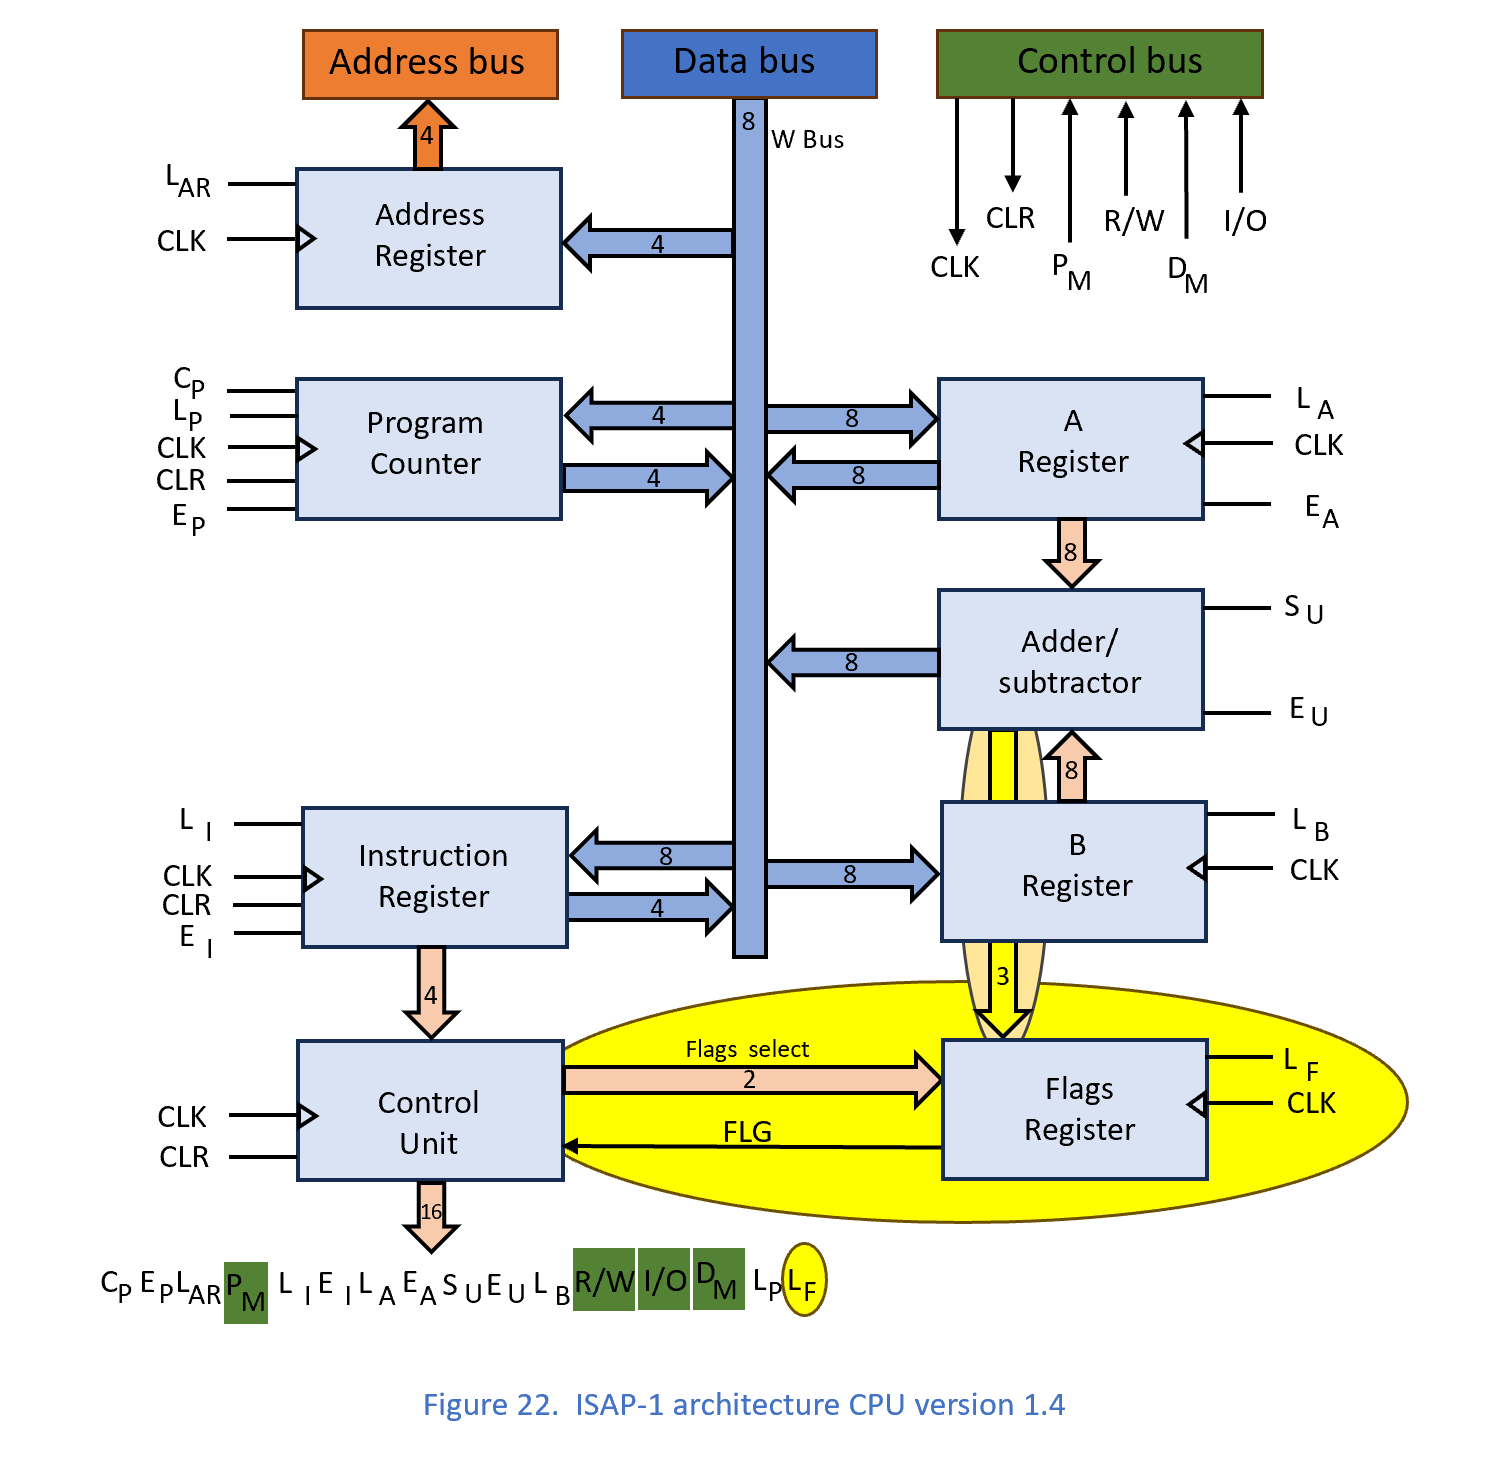
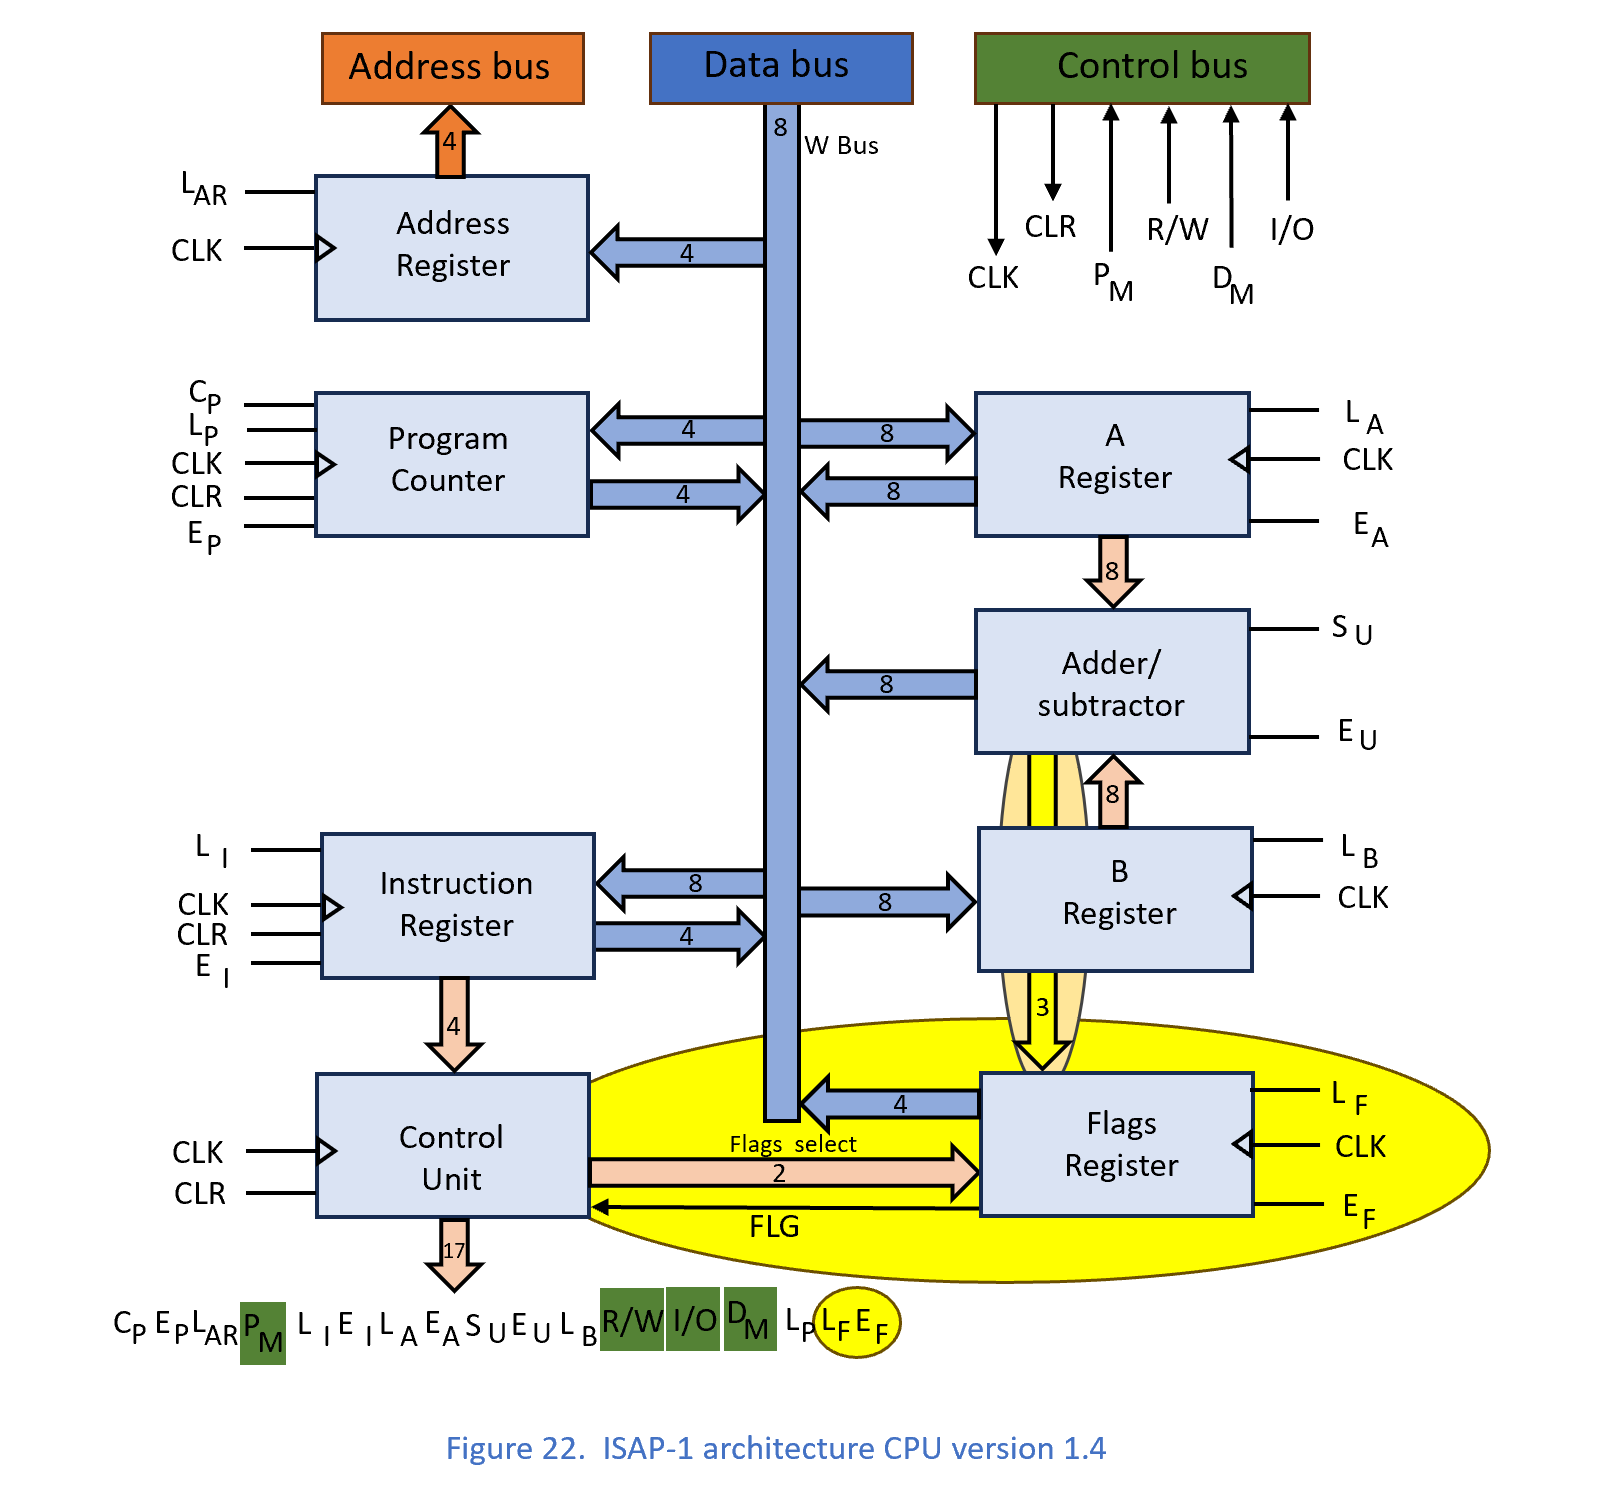
modified:   Pictures/Figure22.png

Changed region(s): [[0.0616, 0.0, 0.9545, 0.924], [0.2771, 0.9548, 0.7082, 0.9856]]

diff --git a/README.md b/README.md
@@ -275,8 +275,9 @@ The block diagram of the computer that has the Flags register added is as follow
 
 ![ Figure 22 ](/Pictures/Figure22.png)
 
-I added the following control signal:
+I added the following control signals:
 - LF – Load Flags – load the Flags register with the value of the Flags signals present at the output of the Adder/Subtractor or Arithmetic and Logic Units
+- EF – Enable Flags – presents the contents of the Flags register on the Data Bus
 
 I have provided 3 Flags for the ISAP-1 computer:
 - The Carry Flag – is set if the 8-bit representation capacity of the result of an arithmetic operation is exceeded,
@@ -344,3 +345,29 @@ The new Instruction Set is:
 | IN       | 1101   | Loads the numeric value given by an input port into the Accumulator           |
 | OUT      | 1110   | Load Accumulator data into Output device                                      |
 | HLT      | 1111   | Stop processing                                                               |
+
+## Improving the system design by adding the Interrupt System
+Since we have an Input-Output subsystem, it is necessary to determine the state of an input-output device to know if it can transmit or receive data.
+
+For this purpose, the interruption mechanism or the pooling method can be used.
+
+The interrupt system requires dedicated hardware for this purpose. When an event occurs, the running program is interrupted and a routine is called that handles the interruption, from which the original program is returned.
+
+This system requires the presence of the stack because subroutines are called.
+
+The pooling method consists of querying each input/output device regarding its availability to transmit or receive data. This query must be done cyclically by the main program.
+
+Usually, a register of the input-output device is read where a bit called READY is tested.
+
+The presence of this Status Register for each input-output device in addition to the data one will halve the number of such devices that can be used in the ISAP-1 computer from 16 to a maximum of 8 and complicates the implementation of these devices.
+
+I decided to implement this mechanism differently by introducing a control signal called INT. This is an input signal for the CPU.
+
+Any input-output device can connect to this signal. It is of the open-collector or open-drain type.
+
+Any input-output device can activate the INT signal only if it is accessed by the presence on the address bus of the address established for it.
+
+The INT signal is connected to the Flag selection multiplexer and is treated by the CPU as a Flag.
+
+To allow working with input-output devices that do not act on the INT control signal, I have provided two new instructions for enabling and disabling interrupts. For this purpose, a flip-flop is set or reset whose output is ORed with the INT signal.
+
